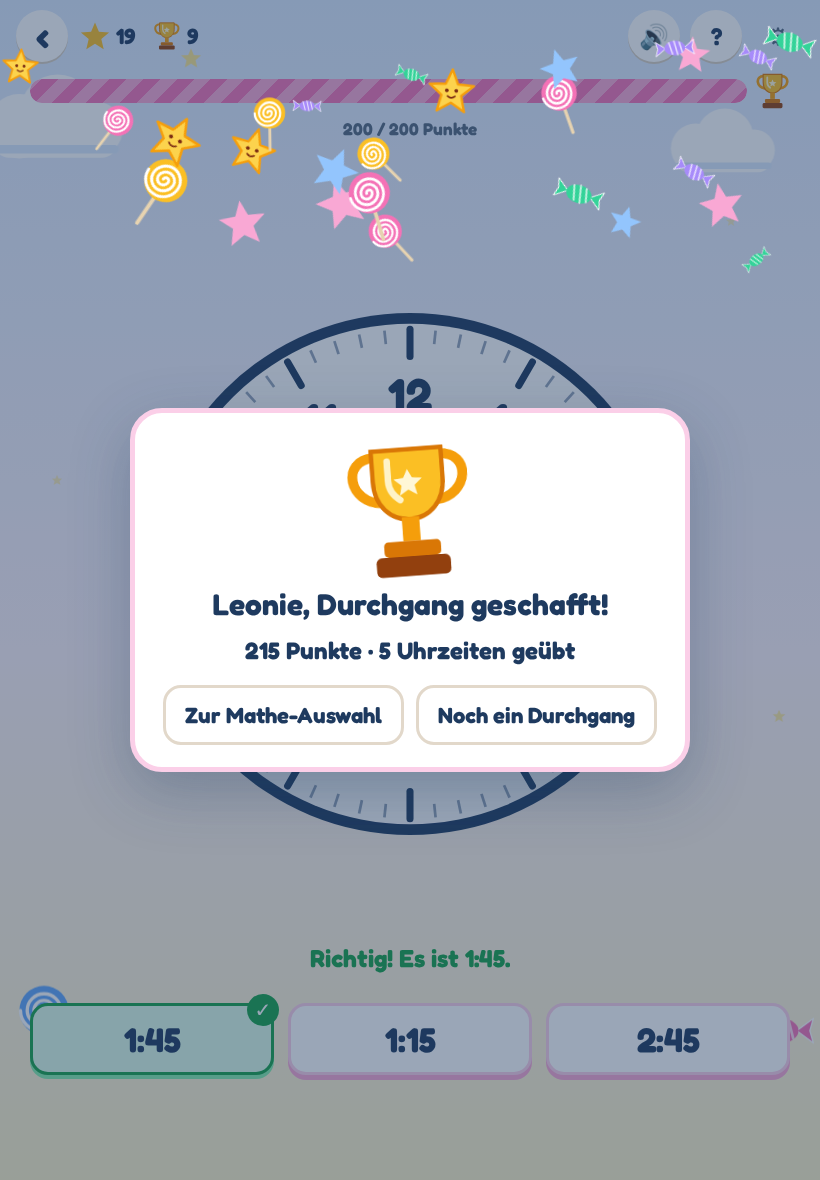
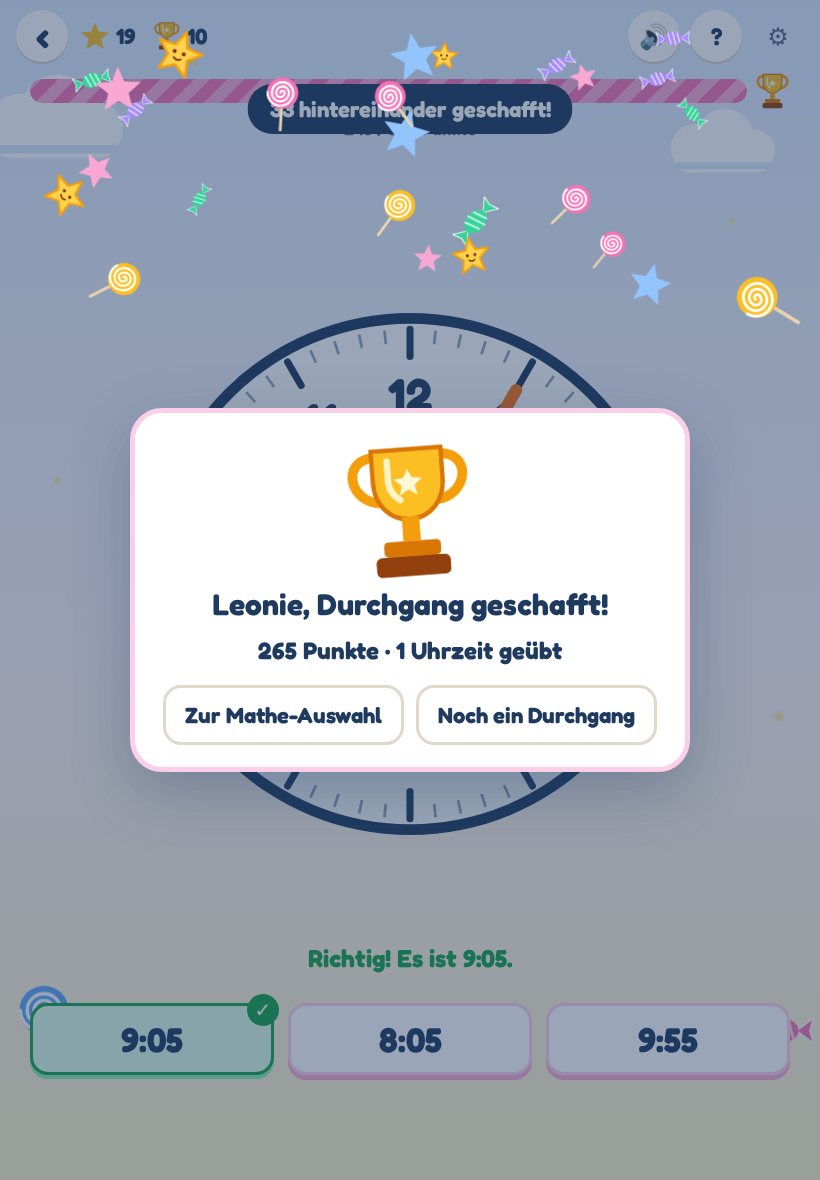
README and screenshots: setting the hands, typing, times of day, sign-in, updates; DEPLOY: API, data volume, backup

diff --git a/README.md b/README.md
@@ -93,25 +93,58 @@ Sobald eine Stufe geschafft ist, kommen dieselben Uhrzeiten auch **in Worten**: 
 drei“. Diese Aufgaben sind eingestreut und bringen 5 Bonuspunkte. Ein Lautsprecher-Knopf
 liest die Antworten vor.
 
+Später kommt als Zusatzlektion, wie man es in vielen Regionen sagt: **„fünf vor halb vier“**
+(3:25), „fünf nach halb vier“ (3:35), „zehn vor halb vier“ (3:20) und „zehn nach halb vier“
+(3:40) – jeweils mit zwei erklärten Beispielen: „Bis halb vier fehlen noch fünf Minuten.“
+
 <p align="center">
   <img src="docs/screenshots/clock-text.png" alt="Uhrzeiten in Worten: drei Antworten wie 'Fünfundzwanzig vor zehn'" width="360">
   &nbsp;
   <img src="docs/screenshots/trophy.png" alt="Pokal am Ende eines Durchgangs" width="360">
 </p>
 
-### Nachmittagszeiten
+### Zeiger stellen und Uhrzeit eintippen
 
-Eine Zeigeruhr sieht um 3 Uhr morgens genauso aus wie um 3 Uhr nachmittags. Sobald halbe
-Stunden geschafft sind, steht deshalb bei manchen Aufgaben neben der Uhr **„Es ist
-Nachmittag.“** – mit Sonne und Schaukel. Dann ist die Antwort **15:00 Uhr**, nicht 3:00 Uhr:
-„Nach zwölf Uhr mittags zählen wir weiter: dreizehn, vierzehn, fünfzehn …“ Geübt werden
-zuerst volle und halbe Stunden zwischen 13 und 18 Uhr; die Morgen-Uhrzeit ist dabei immer
-eine der falschen Antworten. Nach einer richtigen Antwort heißt es zum Beispiel: „Halb
-vier am Nachmittag. Das schreiben wir 15:30 Uhr.“ Morgen, Abend und weitere Minuten folgen.
+Zuschauen ist leichter als selbst machen – deshalb gibt es zwei weitere Arten zu üben:
+
+- **Zeiger stellen:** Die Uhrzeit wird vorgegeben, als „12:30“ oder in Worten („Viertel vor
+  elf“). Beide Zeiger haben einen Griff zum Ziehen. Wie bei einer echten Uhr läuft der kurze
+  Zeiger mit, wenn man den langen über die 12 zieht. Die Zeiger rasten passend zur Stufe ein
+  – erst auf volle Stunden, später auf halbe, Viertel, Fünfer und einzelne Minuten.
+- **Uhrzeit eintippen:** Die Uhr wird gezeigt, die Uhrzeit wird über eine große
+  Zifferntastatur eingetippt, z. B. „11:23“. Ohne Tageszeit sind 11:23 und 23:23 beide
+  richtig – die App zeigt dann, wie man es üblicherweise schreibt.
+
+Beides kommt nacheinander dazu, sobald die jeweilige Stufe beim Ablesen sitzt, und bringt
+10 Bonuspunkte. Nach einem Fehler gibt es wieder genau einen Hinweis, etwa „Der lange Zeiger
+gehört auf die 9“ oder „Zähle vom Zwölferstrich: zwanzig, einundzwanzig, zweiundzwanzig …“.
 
 <p align="center">
-  <img src="docs/screenshots/clock-afternoon.png" alt="Uhr mit dem Hinweis 'Es ist Nachmittag' und den Antworten 19:00 Uhr, 18:00 Uhr und 6:00 Uhr" width="720">
+  <img src="docs/screenshots/clock-set.png" alt="Zeiger stellen: Uhr mit Griffen an beiden Zeigern und der Aufgabe 'Stelle die Uhr auf …'" width="360">
+  &nbsp;
+  <img src="docs/screenshots/clock-input.png" alt="Uhrzeit eintippen: Uhr mit Zifferntastatur" width="360">
 </p>
+
+### Tageszeiten
+
+Eine Zeigeruhr sieht um 3 Uhr morgens genauso aus wie um 3 Uhr nachmittags. Sobald halbe
+Stunden geschafft sind, steht deshalb bei manchen Aufgaben neben der Uhr, welche Tageszeit
+es ist – mit Bild: zuerst **„Es ist Nachmittag.“** (13 bis 18 Uhr), später auch
+**Vormittag**, **Abend**, **Mittag** und **„kurz nach Mitternacht“**. Dann ist die Antwort
+zum Beispiel **21:30 Uhr – halb zehn am Abend** oder **0:15 Uhr – Viertel nach zwölf in der
+Nacht**. In etwa jeder zweiten Aufgabe ist dieselbe Uhr in der anderen Tageshälfte eine der
+falschen Antworten – so lernt das Kind, auf die Tageszeit zu achten: „Nach zwölf Uhr mittags
+zählen wir weiter: dreizehn, vierzehn, fünfzehn …“
+
+<p align="center">
+  <img src="docs/screenshots/clock-afternoon.png" alt="Uhr mit dem Hinweis 'Es ist Nachmittag' und Antworten im 24-Stunden-Format" width="720">
+</p>
+
+### Erst sagen, dann aufdecken
+
+Bei Uhrzeiten, die schon sicher sitzen, sind die Antworten ab und zu erst einmal verdeckt:
+„Sag die Uhrzeit laut. Dann tippe auf ‚Aufdecken‘.“ Selbst erinnern festigt mehr als
+Wiedererkennen. Im Elternbereich lässt sich das abschalten.
 
 ### Durchgänge, Pokale, Sterne und Abzeichen
 
@@ -141,13 +174,35 @@ vier am Nachmittag. Das schreiben wir 15:30 Uhr.“ Morgen, Abend und weitere Mi
   <img src="docs/screenshots/clock-hint.png" alt="Erklärung nach einer falschen Antwort, mit Minutenzahlen und markiertem Zeigerweg" width="720">
 </p>
 
+### Spielstand: „Wer lernt hier?“
+
+Beim ersten Start fragt die App nach einem **Namen und einer PIN aus vier Ziffern**. Damit
+liegt der Spielstand auf dem Server und ist auf jedem Gerät da – auf dem Tablet zu Hause
+genauso wie auf dem Handy unterwegs. Wer schon geübt hat, nimmt seinen Stand beim Anlegen
+des Profils mit.
+
+- Gespeichert wird nur der Lernstand (Stufen, Punkte, Sterne, Pokale) – keine weiteren
+  Daten. Die PIN liegt nur als Hash auf dem Server.
+- Nach fünf falschen PINs ist das Profil für 15 Minuten gesperrt; so lässt sich die PIN
+  nicht durchprobieren.
+- Die App funktioniert auch offline; Änderungen werden hochgeladen, sobald wieder Internet
+  da ist. Spielt jemand auf zwei Geräten, gewinnt die spätere Änderung.
+- Wer das nicht möchte: „Ohne Anmeldung spielen“ – dann bleibt alles nur auf dem Gerät.
+
+<p align="center">
+  <img src="docs/screenshots/login.png" alt="Anmeldung 'Wer lernt hier?' mit Name und PIN-Tastatur" width="360">
+</p>
+
 ### Für Eltern
 
-- Auf der **Startseite** sieht man alle Pokale, Sterne und Abzeichen und die Lernbereiche.
-- Das **Zahnrad** im Uhr-Modul öffnet den Elternbereich: Stand jeder Stufe, Töne an/aus
-  und „Fortschritt löschen“ (drei Sekunden gedrückt halten).
-- Der Fortschritt bleibt **nur auf dem Gerät** gespeichert (im Browser). Es werden keine
-  Daten verschickt. Wer im Browser die Websitedaten löscht, fängt wieder von vorne an.
+- Auf der **Startseite** sieht man alle Pokale, Sterne und Abzeichen und die Lernbereiche,
+  unten das Profil, ob der Spielstand gespeichert ist, und die **Version** der App.
+- Das **Zahnrad** im Uhr-Modul öffnet den Elternbereich: Stand jeder Stufe und Spur,
+  Töne an/aus, „Erst sagen, dann aufdecken“ an/aus und „Fortschritt löschen“ (drei
+  Sekunden gedrückt halten).
+- **Updates:** Die installierte App sucht beim Start, alle 30 Minuten und beim Zurückkehren
+  nach einer neuen Version und lädt sie, sobald gerade keine Übung läuft. Ein Tipp auf die
+  Versionsnummer sucht sofort.
 - Tipp: Kurze Übungsrunden von fünf bis zehn Minuten wirken besser als lange.
 
 <p align="center">
@@ -156,9 +211,8 @@ vier am Nachmittag. Das schreiben wir 15:30 Uhr.“ Morgen, Abend und weitere Mi
 
 ## Ideen für später
 
-- Zeiger selbst stellen: die Uhrzeit wird genannt, das Kind zieht den Minutenzeiger.
-- „Fünf vor halb vier“ und andere regionale Formulierungen als Zusatzlektion.
-- Weitere Module neben der Uhr.
+Gesammelt im [Backlog](BACKLOG.md) – zum Beispiel Zeitspannen („Wie lange noch?“), weitere
+Module und eine Taschengeld-Idee.
 
 ---
 
@@ -170,7 +224,10 @@ Für alle, die mitbauen möchten.
 - Die Lernlogik (Stufen, Freischaltung, Anteile, Wiederholungen, Punkte) steckt in
   [`src/modules/clock/engine.ts`](src/modules/clock/engine.ts) und ist mit **Vitest**
   getestet.
-- Fortschritt liegt im `localStorage` des Browsers.
+- Fortschritt liegt im `localStorage` des Browsers und wird mit dem eigenen kleinen
+  **API-Server** ([`server/src`](server/src), Node ohne Framework, JSON-Dateien) synchronisiert.
+  Profile: Name + 4-stellige PIN (scrypt), Geräte-Token, Rate-Limits.
+- Installierbar als **PWA** (Vollbild, offline, automatische Updates).
 - Die Schrift [Fredoka](https://fonts.google.com/specimen/Fredoka) ist eingebettet
   (kein Abruf bei Google).
 - Neue Module implementieren `LearningModule` aus
@@ -179,6 +236,7 @@ Für alle, die mitbauen möchten.
 
 ```bash
 npm install
+npm run api        # API auf :8081 (Daten in .data/), der Dev-Server leitet /api dorthin
 npm run dev        # http://localhost:5173, im WLAN auch vom Tablet erreichbar
 npm test           # Unit-Tests
 npm run build      # statische Seite in dist/

diff --git a/DEPLOY.md b/DEPLOY.md
@@ -9,13 +9,15 @@ Runbook für das Ausrollen auf **netcup1**. Für die Entwicklung reicht `npm run
 |-----|------|
 | Domain | `lernwelt.nieda.de` (öffentlich) |
 | Server | `netcup1` (SSH-Host aus `~/.ssh/config`) |
-| Laufzeit | Docker-Container `lernwelt_web` (nginx-unprivileged, Port 8080, statische Seite) |
+| Laufzeit | Docker-Container `lernwelt_web` (nginx-unprivileged, Port 8080, statische Seite) und `lernwelt_api` (Node, Port 8081, Pfad `/api`) |
+| Daten | Docker-Volume `lernwelt_data` (Profile als JSON-Dateien), in Terraform mit `prevent_destroy` geschützt |
 | Reverse-Proxy | Traefik im Docker-Netz `proxy-manager`, TLS via Certresolver `production` |
 | Verwaltung | Terraform (`terraform/main.tf`), State im S3-Bucket (`terraform/backend.hcl`) |
 
 ## Mechanik
 
-Es gibt **keine Container-Registry**. `bin/release.sh` baut das Image mit
+Es gibt **keine Container-Registry**. `bin/release.sh` baut beide Images (`lernwelt` und
+`lernwelt-api`, Dockerfile-Targets `web` und `api`) mit
 `DOCKER_HOST=ssh://netcup1` direkt auf dem Server (nur der per `.dockerignore`
 gefilterte Build-Kontext geht über SSH; `DOCKER_BUILDKIT=0`, weil buildx über `ssh://`
 eine SSH-Verbindungsflut auslöst). Der Build führt `npm test` aus und bricht bei roten
@@ -79,3 +81,13 @@ an; den alten vorher mit `task plan` prüfen. Ein neuer State-Key braucht
 
 Der Lernfortschritt liegt im Browser (`localStorage`) und ist an die Domain gebunden.
 Ein Domainwechsel startet auf dem Tablet bei null.
+
+## Spielstände sichern
+
+Die Profile liegen im Volume `lernwelt_data`. Sicherung auf den Rechner:
+
+```bash
+DOCKER_HOST=ssh://netcup1 docker run --rm -v lernwelt_data:/data alpine tar -C /data -cz . > lernwelt-data-$(date +%F).tar.gz
+```
+
+Zurückspielen: Container `lernwelt_api` stoppen, Archiv mit `tar -xz` ins Volume entpacken, Container starten.
